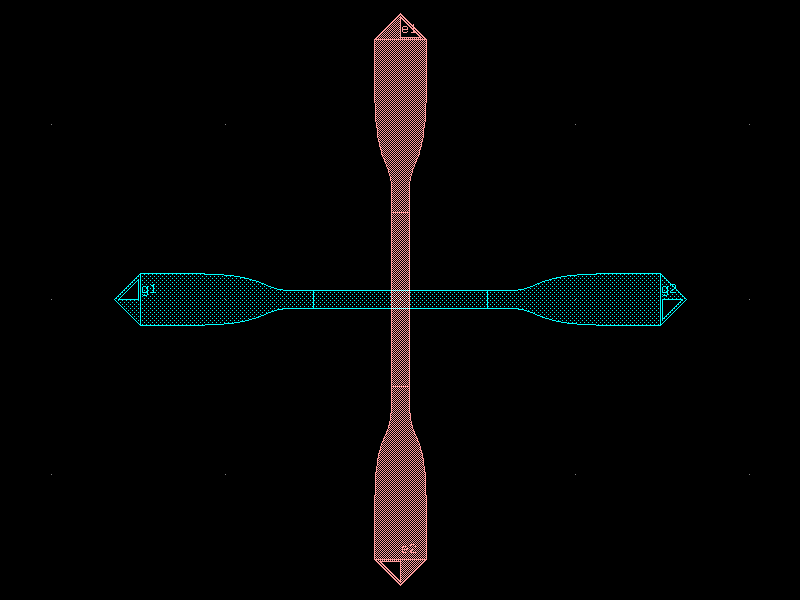
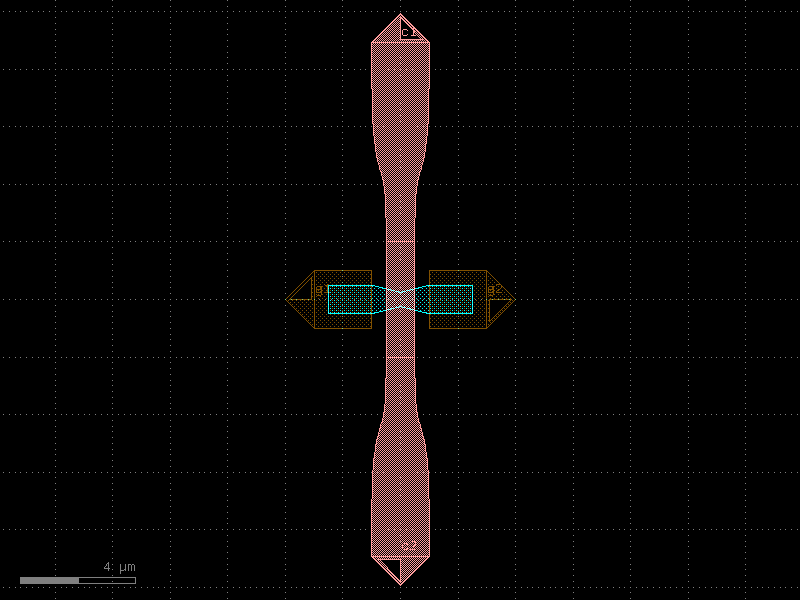
working on htrons

diff --git a/src/qnngds/devices/htron.py b/src/qnngds/devices/htron.py
@@ -72,25 +72,96 @@ def planar(
 
 
 @gf.cell
+def heater(
+    pad_size: tuple[float, float] = (2, 2),
+    constr_length: float = 2,
+    constr_width: float = 0.5,
+    pad_outline: float = 0.5,
+    heater_layer: LayerSpec = (2, 0),
+    pad_layer: LayerSpec = (3, 0),
+    port_type: str = "electrical",
+) -> gf.Component:
+    """Create a heater for use with hTrons.
+
+    Args:
+        pad_size (tuple[float, float]): (width, height) of pad
+        constr_length (float): length of heater constriction
+        constr_width (float): width at narrowest point
+        pad_outline (float): amount by which to oversize top pad on each side
+        heater_layer (LayerSpec): layer for heater
+        pad_layer (LayerSpec): layer for top pads
+        port_type (str): type of port, default "electrical"
+
+    Returns:
+        gf.Component: a heater
+    """
+    if pad_size[1] - 2 * pad_outline < constr_width:
+        error_msg = (
+            f"{pad_size=} and {pad_outline=} do not give enough space to make a "
+        )
+        error_msg += f"constriction of width {constr_width=}. Increase pad_size and/or decrease pad_outline"
+        raise ValueError(error_msg)
+    h_pad = gf.components.shapes.compass(
+        size=(pad_size[0] - pad_outline, pad_size[1] - 2 * pad_outline),
+        layer=heater_layer,
+    )
+    t_pad = gf.components.shapes.compass(size=pad_size, layer=pad_layer)
+    HEATER = gf.Component()
+    h_pads = []
+    t_pads = []
+    heater = HEATER << nanowire.sharp(
+        constr_width=constr_width,
+        wire_width=pad_size[1] - 2 * pad_outline,
+        length=constr_length,
+        layer=heater_layer,
+    )
+    for i in range(2):
+        h_pads.append(HEATER << h_pad)
+        t_pads.append(HEATER << t_pad)
+    for i in range(2):
+        h_pads[i].connect(h_pads[i].ports["e1"], heater.ports[f"e{i + 1}"])
+        t_pads[i].connect(
+            t_pads[i].ports["e1"],
+            heater.ports[f"e{i + 1}"],
+            allow_width_mismatch=True,
+            allow_layer_mismatch=True,
+        )
+    HEATERu = gf.Component()
+    HEATERu << qg.utilities.union(HEATER)
+    for n, t_pad in enumerate(t_pads):
+        HEATERu.add_port(name=f"e{n + 1}", port=t_pad.ports["e3"])
+    for port in HEATERu.ports:
+        port.port_type = port_type
+    return HEATERu
+
+
+@gf.cell
 def multilayer(
-    channel_spec: ComponentSpec = partial(nanowire.variable_length, layer=(1, 0)),
-    gate_spec: ComponentSpec = partial(nanowire.variable_length, layer=(2, 0)),
+    rotation: float = 0,
+    channel_spec: ComponentSpec = partial(
+        nanowire.variable_length, constr_width=1, wire_width=2, length=4, layer=(1, 0)
+    ),
+    gate_spec: ComponentSpec = heater,
 ) -> gf.Component:
     """Create a multilayer hTron.
 
     Args:
+        rotation (float): amount to rotate gate relative to channel.
         channel_spec (ComponentSpec): callable function that generates a gf.Component for the channel nanowire
         gate_spec (ComponentSpec): callable function that generates a gf.Component for the gate nanowire
 
     Returns:
-        gf.Component: a single planar hTron
+        gf.Component: a multilayer hTron
     """
 
     HTRON = gf.Component()
 
-    channel = HTRON << channel_spec()
-    gate = HTRON << gate_spec()
-    gate.rotate(90)
+    c = gf.get_component(channel_spec)
+    g = gf.get_component(gate_spec)
+
+    channel = HTRON << c
+    gate = HTRON << g
+    gate.rotate(rotation)
     gate.move(gate.center, channel.center)
     for p, port in enumerate(gate.ports):
         HTRON.add_port(name=f"g{p + 1}", port=port)

diff --git a/src/qnngds/devices/nanowire.py b/src/qnngds/devices/nanowire.py
@@ -4,6 +4,8 @@ import gdsfactory as gf
 
 from gdsfactory.typings import LayerSpec
 
+import qnngds as qg
+
 
 @gf.cell
 def variable_length(
@@ -58,3 +60,39 @@ def variable_length(
         port.port_type = port_type
 
     return NANOWIRE
+
+
+@gf.cell
+def sharp(
+    constr_width: float = 0.1,
+    wire_width: float = 0.3,
+    length: float = 1,
+    layer: LayerSpec = (1, 0),
+    port_type: str = "electrical",
+) -> gf.Component:
+    """Creates a single wire, made of two linear tapers starting at
+    wire_width tapering down to constriction of width constr_width.
+
+    Args:
+        constr_width (int or float): The width of the channel (at the hot-spot location).
+        wire_width (int or float): The width of connections to source/drain
+        length (int or float): The length of the interior constriction.
+        layer (LayerSpec): GDS layer
+        port_type (string): gdsfactory port type. default "electrical"
+
+    Returns:
+        gf.Component: sharp constriction
+    """
+    NANOWIRE = gf.Component()
+    tap = qg.geometries.taper(length / 2, constr_width, wire_width, layer=layer)
+    taps = []
+    for i in range(2):
+        taps.append(NANOWIRE << tap)
+    taps[0].connect(taps[0].ports["e1"], taps[1].ports["e1"])
+    NANOWIREu = gf.Component()
+    NANOWIREu << qg.utilities.union(NANOWIRE)
+    for n, tap in enumerate(taps):
+        NANOWIREu.add_port(name=f"e{n + 1}", port=tap.ports["e2"])
+    for port in NANOWIREu.ports:
+        port.port_type = port_type
+    return NANOWIREu

diff --git a/docs/user/api.rst b/docs/user/api.rst
@@ -12,9 +12,14 @@ htron
 
 .. automodule:: qnngds.devices.htron
     :members:
-    :exclude-members: multilayer, planar
+    :exclude-members: heater, multilayer, planar
     :undoc-members:
     :show-inheritance:
+
+    .. autofunction:: heater
+
+        .. image:: images/devices/htron/heater.png
+            :alt: heater.png
 
     .. autofunction:: multilayer
 
@@ -31,9 +36,14 @@ nanowire
 
 .. automodule:: qnngds.devices.nanowire
     :members:
-    :exclude-members: variable_length
+    :exclude-members: sharp, variable_length
     :undoc-members:
     :show-inheritance:
+
+    .. autofunction:: sharp
+
+        .. image:: images/devices/nanowire/sharp.png
+            :alt: sharp.png
 
     .. autofunction:: variable_length
 
